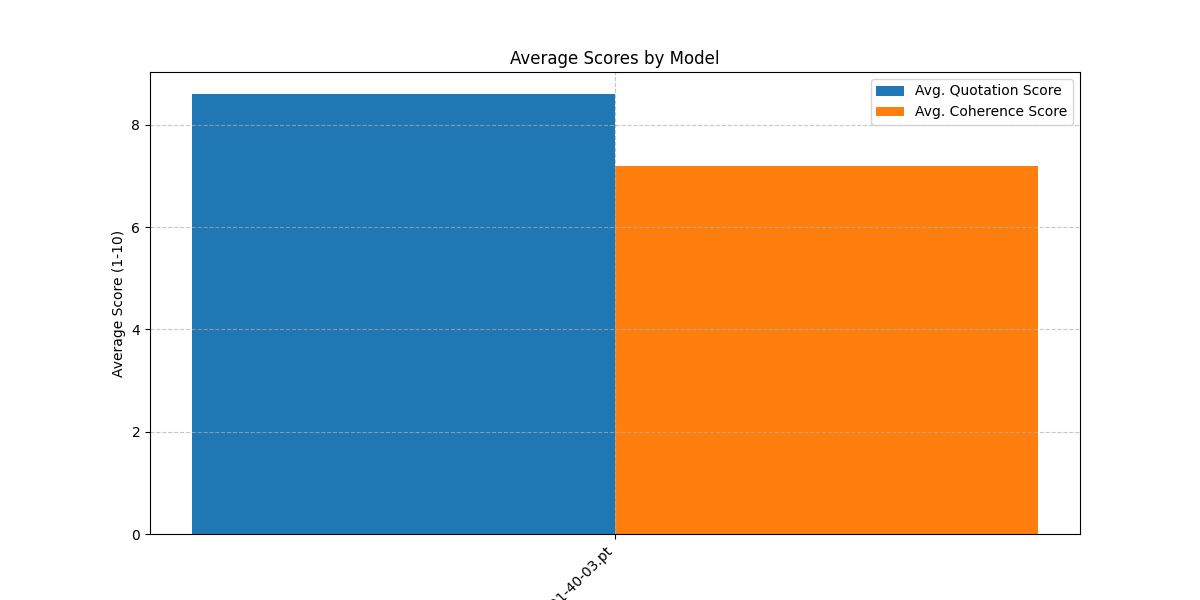
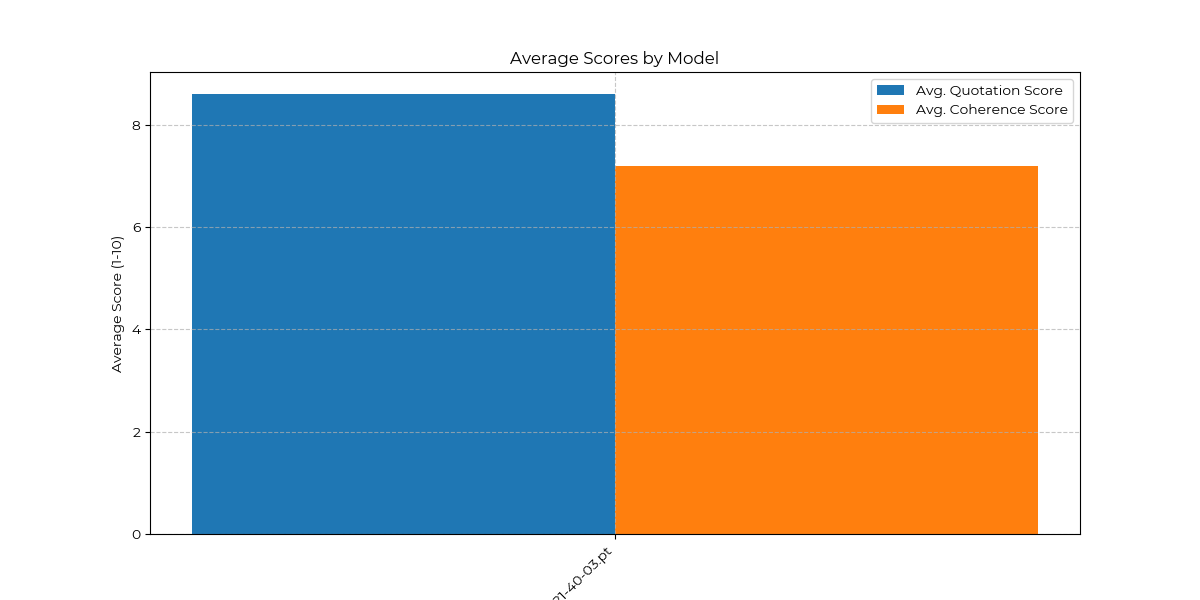
Stashing changes to quote grader.

diff --git a/src/quote_grading/plot_model_stats.py b/src/quote_grading/plot_model_stats.py
@@ -3,13 +3,29 @@ import matplotlib.pyplot as plt
 import numpy as np
 import os
 from collections import defaultdict
+from ..inference_utils import setup_matplotlib  # Import METR formatting function
+
+setup_matplotlib()  # Apply METR style formatting globally
+
+# Get the directory containing this script
+script_dir = os.path.dirname(os.path.abspath(__file__))
+# Construct paths relative to the script's directory (src/quote_grading)
+# Assumes 'data' folder is inside the same directory as this script
+data_dir_path = os.path.join(script_dir, 'data')
+data_file_path = os.path.join(data_dir_path, 'grades', 'quotation_scores.json')
+plots_dir_path = os.path.join(data_dir_path, 'plots')
 
 # Create a directory for plots if it doesn't exist
-os.makedirs("./data/plots", exist_ok=True)
+os.makedirs(plots_dir_path, exist_ok=True)
 
-# Load the quotation scores data
-with open("./data/grades/quotation_scores.json", "r") as f:
-    data = json.load(f)
+# Load the quotation scores data using the constructed path
+try:
+    with open(data_file_path, "r") as f:
+        data = json.load(f)
+except FileNotFoundError:
+    print(f"Error: Could not find the data file at {data_file_path}")
+    print("Please ensure the file exists and the path is correct.")
+    exit() # Exit if data file is not found
 
 # Organize data by model
 model_data = defaultdict(lambda: {'quote_scores': [], 'coherence_scores': []})
@@ -154,14 +170,14 @@ for i in range(len(metrics)):
 
 ax5.set_title('Average Scores Heatmap by Model')
 
-# Adjust layout and save all plots
+# Adjust layout and save all plots using the constructed path
 plt.tight_layout()
-fig.savefig('./data/plots/quotation_boxplots.png')
-fig2.savefig('./data/plots/average_scores_comparison.png')
-fig3.savefig('./data/plots/quote_coherence_relationship.png')
-fig4.savefig('./data/plots/scores_heatmap.png')
+fig.savefig(os.path.join(plots_dir_path, 'quotation_boxplots.png'))
+fig2.savefig(os.path.join(plots_dir_path, 'average_scores_comparison.png'))
+fig3.savefig(os.path.join(plots_dir_path, 'quote_coherence_relationship.png'))
+fig4.savefig(os.path.join(plots_dir_path, 'scores_heatmap.png'))
 
-print("Plots created and saved to ./data/plots/")
+print(f"Plots created and saved to {plots_dir_path}")
 
 # Print summary statistics
 print("\nSummary Statistics:")
